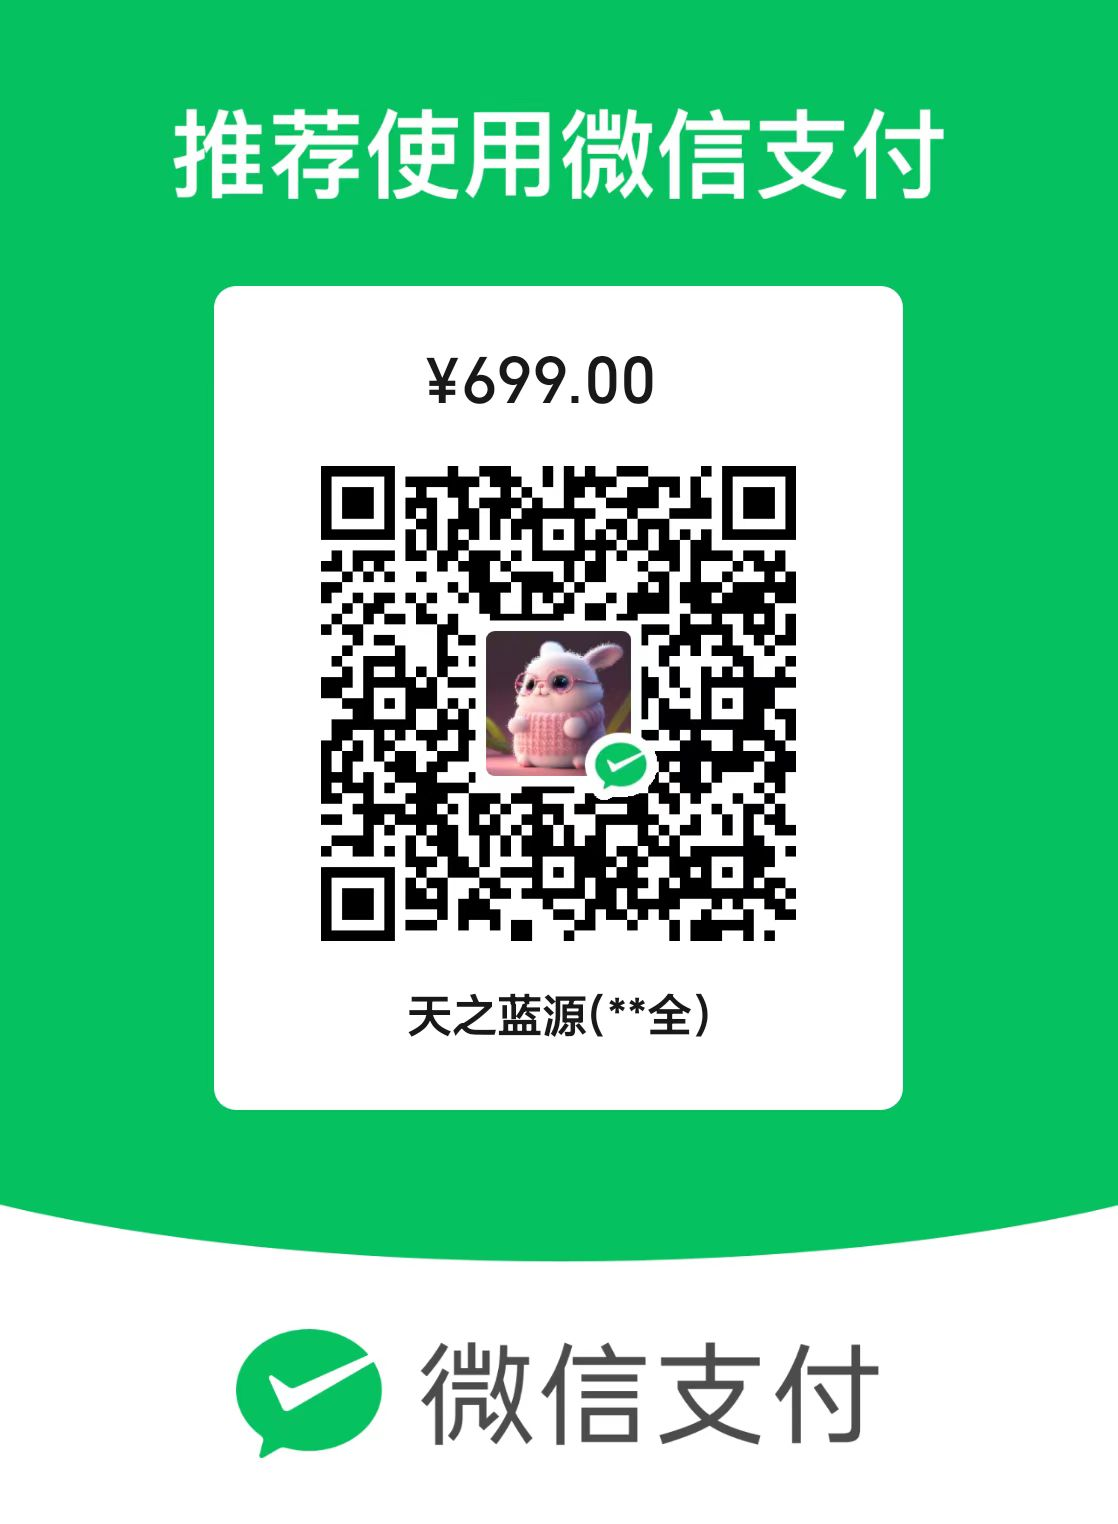
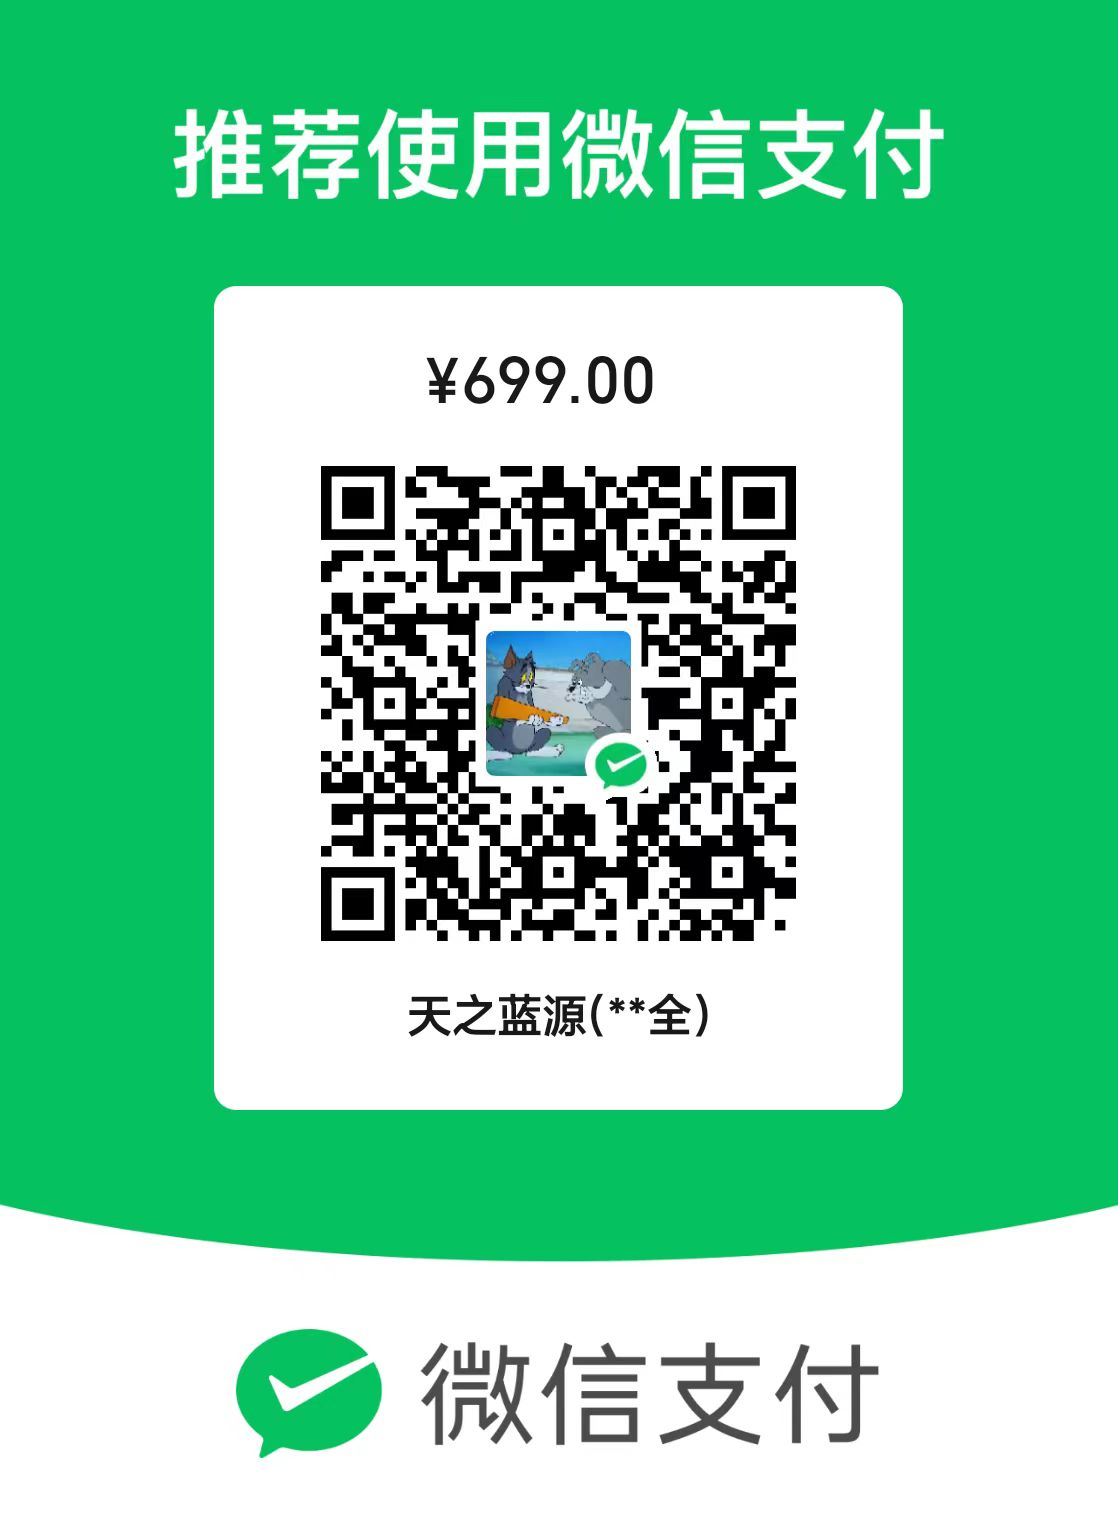
docs(webCode): 优化字体显示，更新文档内容

Changed region(s): [[0.2737, 0.3084, 0.7299, 0.6168]]

diff --git a/src/views/webCode/components/ProductPrice.vue b/src/views/webCode/components/ProductPrice.vue
@@ -77,7 +77,7 @@
             <svg-icon icon-name="icon-shanchu_huaban" color="#333" size="16px"></svg-icon>
           </li>
           <li>
-            知识星球学习社区
+            是否与化简官网一致
             <svg-icon icon-name="icon-shanchu_huaban" color="#333" size="16px"></svg-icon>
           </li>
         </ul>
@@ -163,7 +163,7 @@
             <svg-icon icon-name="icon-shanchu_huaban" color="#333" size="16px"></svg-icon>
           </li>
           <li>
-            知识星球学习社区
+            是否与化简官网一致
             <svg-icon icon-name="icon-shanchu_huaban" color="#333" size="16px"></svg-icon>
           </li>
         </ul>
@@ -250,7 +250,7 @@
             <svg-icon icon-name="icon-shanchu_huaban" color="#333" size="16px"></svg-icon>
           </li>
           <li>
-            知识星球学习社区
+            是否与化简官网一致
             <svg-icon icon-name="icon-shanchu_huaban" color="#333" size="16px"></svg-icon>
           </li>
         </ul>
@@ -337,7 +337,7 @@
             <svg-icon icon-name="icon-duigou_kuai" color="#2ddd9d" size="22px"></svg-icon>
           </li>
           <li>
-            知识星球学习社区
+            是否与化简官网一致
             <svg-icon icon-name="icon-duigou_kuai" color="#2ddd9d" size="22px"></svg-icon>
           </li>
         </ul>
@@ -379,7 +379,7 @@
   };
   // 699元弹窗
   const to699 = () => {
-    imgSrc.value = 'https://smallpig.site:9000/resume/logo/zsxq.jpg';
+    imgSrc.value = 'https://smallpig.site:9000/resume/logo/vx-pay699.jpg';
     dialogVisible.value = true;
   };
 </script>

diff --git a/src/views/webCode/index.vue b/src/views/webCode/index.vue
@@ -28,6 +28,20 @@
           <introduce-card-vue :card-data="item"></introduce-card-vue>
         </div>
       </div>
+
+      <!-- 后台管理 -->
+      <introduce-title-vue
+        title="完善的后台管理系统"
+        subtitle="对于模板、评论、文章、简币等一系列管理操作"
+        title-color="#000"
+        subtitle-color="#7f8b96"
+      ></introduce-title-vue>
+
+      <!-- 管理系统介绍展示 -->
+      <div v-viewer class="back-sytstem-box">
+        <img src="@/assets/images/back-system-1.png" alt="后台面板" />
+        <img src="@/assets/images/back-system-2.png" alt="后台菜单" />
+      </div>
     </div>
 
     <el-backtop :right="50" :bottom="80" />
@@ -162,6 +176,18 @@
           align-items: center;
           justify-content: center;
           margin-bottom: 40px;
+        }
+      }
+      .back-sytstem-box {
+        display: flex;
+        flex-direction: column;
+        margin: 80px 0 20px 0;
+        img {
+          max-width: 100%;
+          margin-bottom: 30px;
+          box-shadow: 0px 0px 70px rgba(175, 50, 50, 0.1);
+
+          border-radius: 10px;
         }
       }
     }

diff --git a/src/config/index.ts b/src/config/index.ts
@@ -1,5 +1,4 @@
-const serverAddress =
-  import.meta.env.MODE === 'development' ? 'http://localhost:3399' : 'https://91huajian.cn';
+const serverAddress = 'https://91huajian.cn';
 const CONFIG = {
   // serverAddress: 'http://localhost:3399',
   // serverAddress: 'https://91huajian.cn',

diff --git a/src/views/custom/components/MainLeft.vue b/src/views/custom/components/MainLeft.vue
@@ -186,7 +186,7 @@
             background-color: rgba(#2cbd99, 0.2);
           }
           p {
-            font-size: 9px;
+            font-size: 12px;
             color: #2cbd99;
             transform: scale(0.9);
           }
